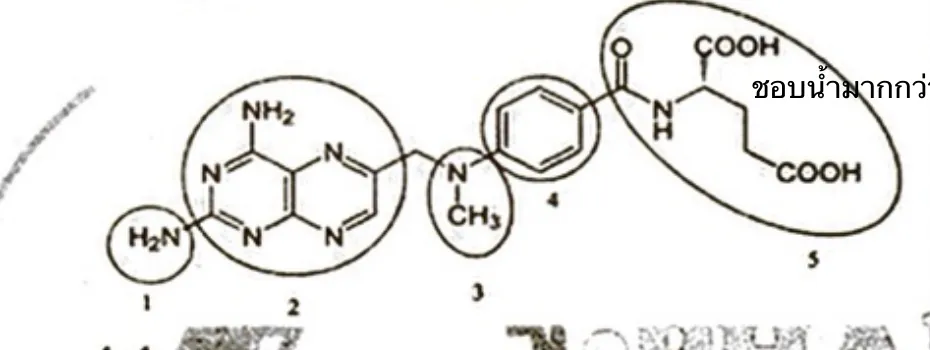
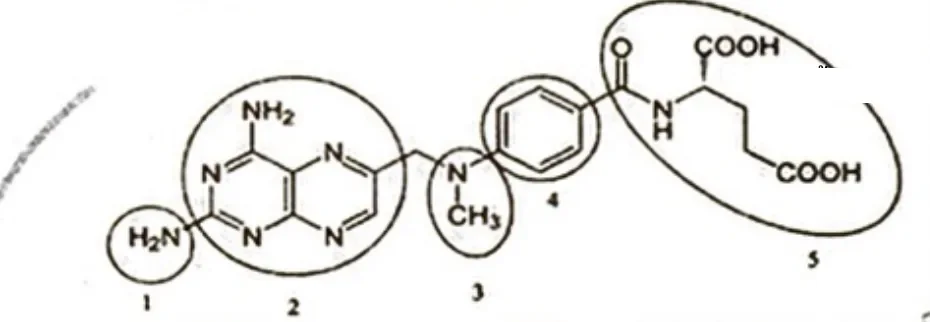
Questions: ลบตัวใบ้ในรูป 64D1 q013/q097 · รูปรวม มช. endo q7 (5 รูปเกินลิมิต 4) · toast meta นับกลุ่ม/หมวดย่อยแยกกัน

diff --git a/src/views/QuestionsView.vue b/src/views/QuestionsView.vue
@@ -890,7 +890,10 @@ async function recomputeMeta() {
     // หมวดที่มากับ import รอบก่อนๆ จึงกลับขึ้น dropdown หน้าตรวจข้อสอบ
     const addedTopics = await registerTopics(distinctCategories(all), 'recompute')
     const tail = addedTopics.length ? ` · เก็บหมวดตกทะเบียนเข้า dropdown ${addedTopics.length} หมวด` : ''
-    toast(`อัปเดต meta: เผยแพร่ ${meta.publishedTotal} ข้อ, ${meta.categories.length} หมวด${tail}`, 'success')
+    // นับกลุ่ม/หมวดย่อยแยกกัน — categories รวมสองระดับไว้ด้วยกัน นับรวมแล้วขึ้น "100 กว่าหมวด" ชวนเข้าใจผิด (user ถาม 21 พ.ย. 2026)
+    const nGroups = new Set(all.filter(q => q.isPublished && q.pleGroup).map(q => q.pleGroup)).size
+    const nSubs = new Set(all.filter(q => q.isPublished && q.pleSub).map(q => q.pleGroup + '|' + q.pleSub)).size
+    toast(`อัปเดต meta: เผยแพร่ ${meta.publishedTotal} ข้อ · ${nGroups} กลุ่ม · ${nSubs} หมวดย่อย${tail}`, 'success')
   } catch (e) {
     console.error('[recompute meta]', e); toast('อัปเดต meta ไม่สำเร็จ', 'error')
   } finally { recomputingMeta.value = false }
